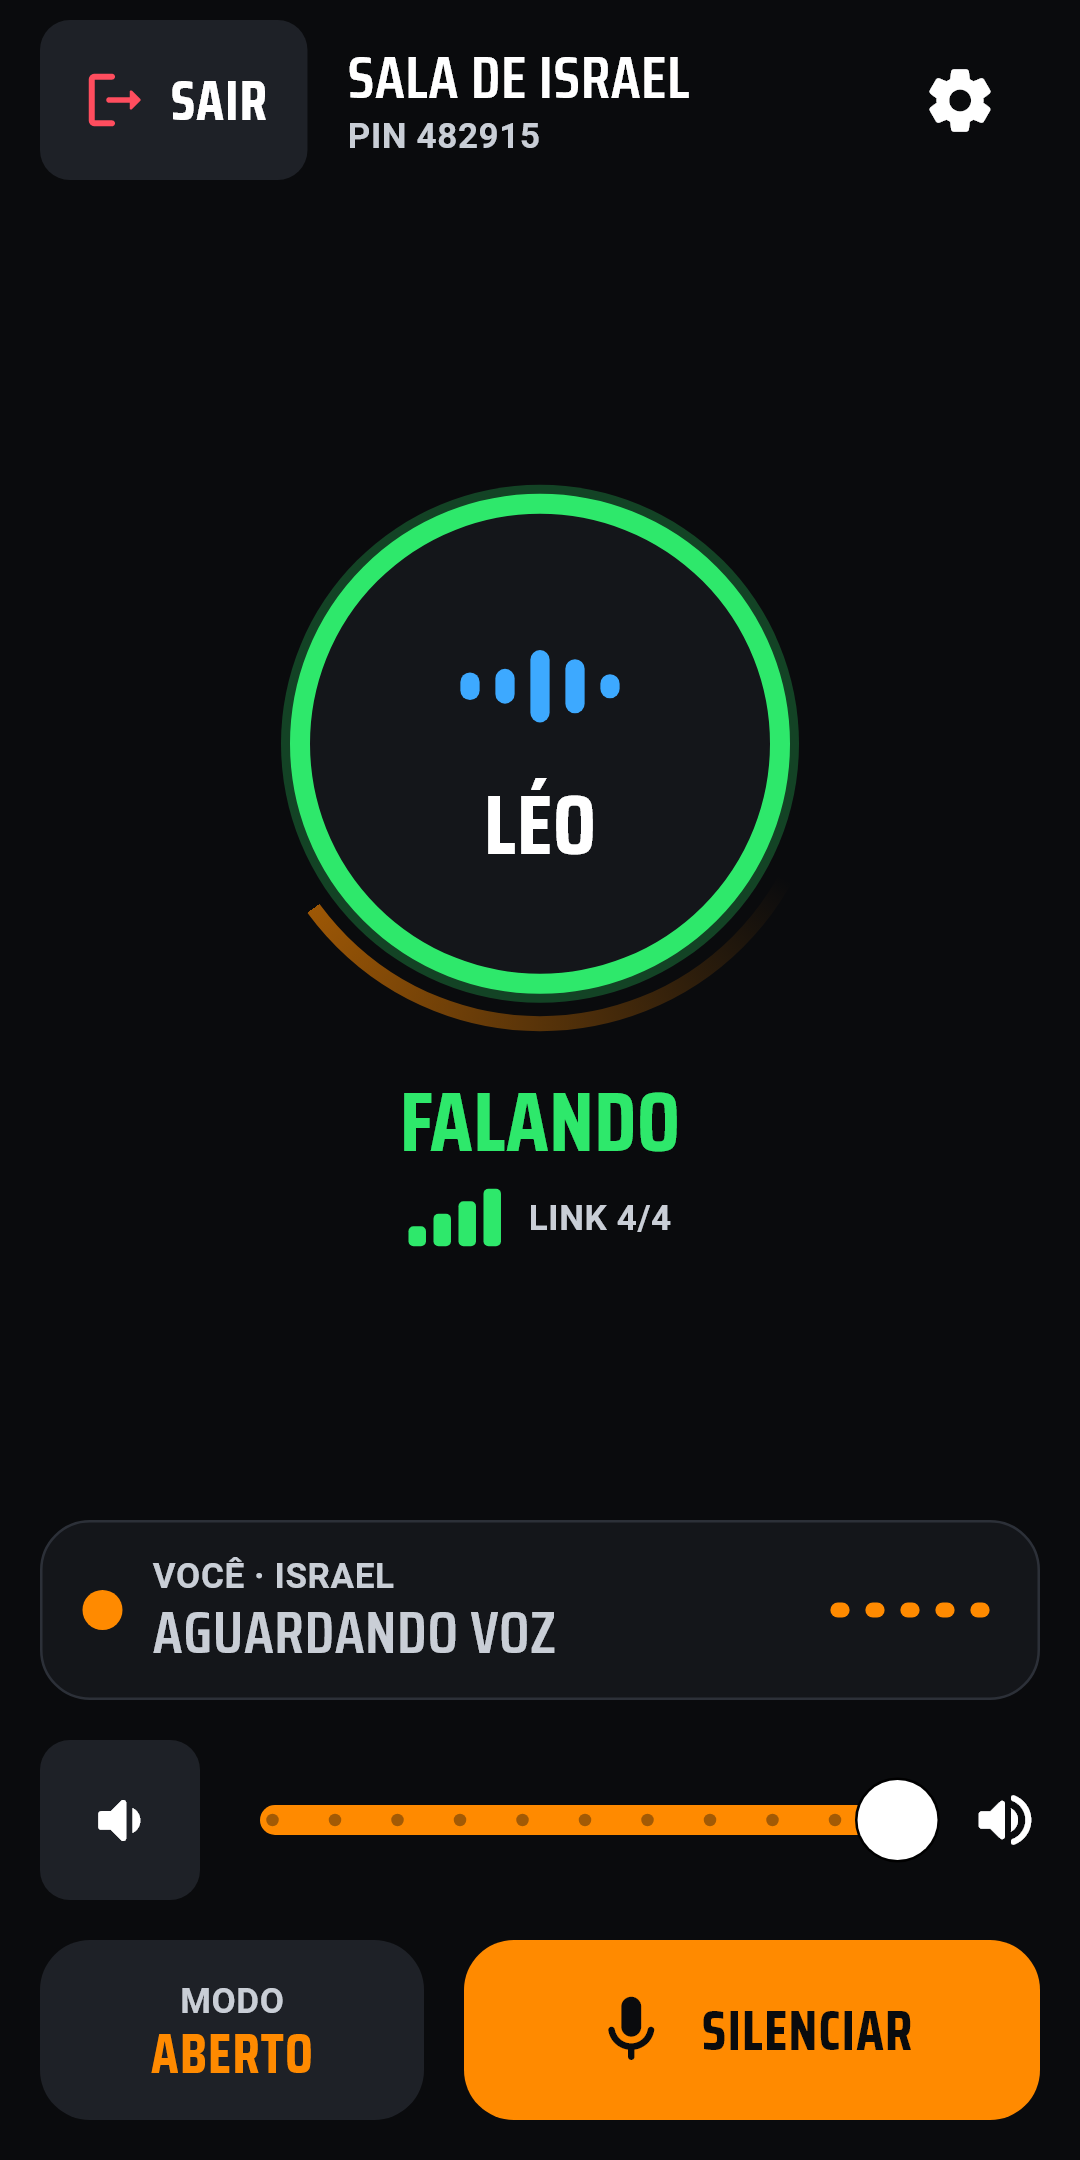
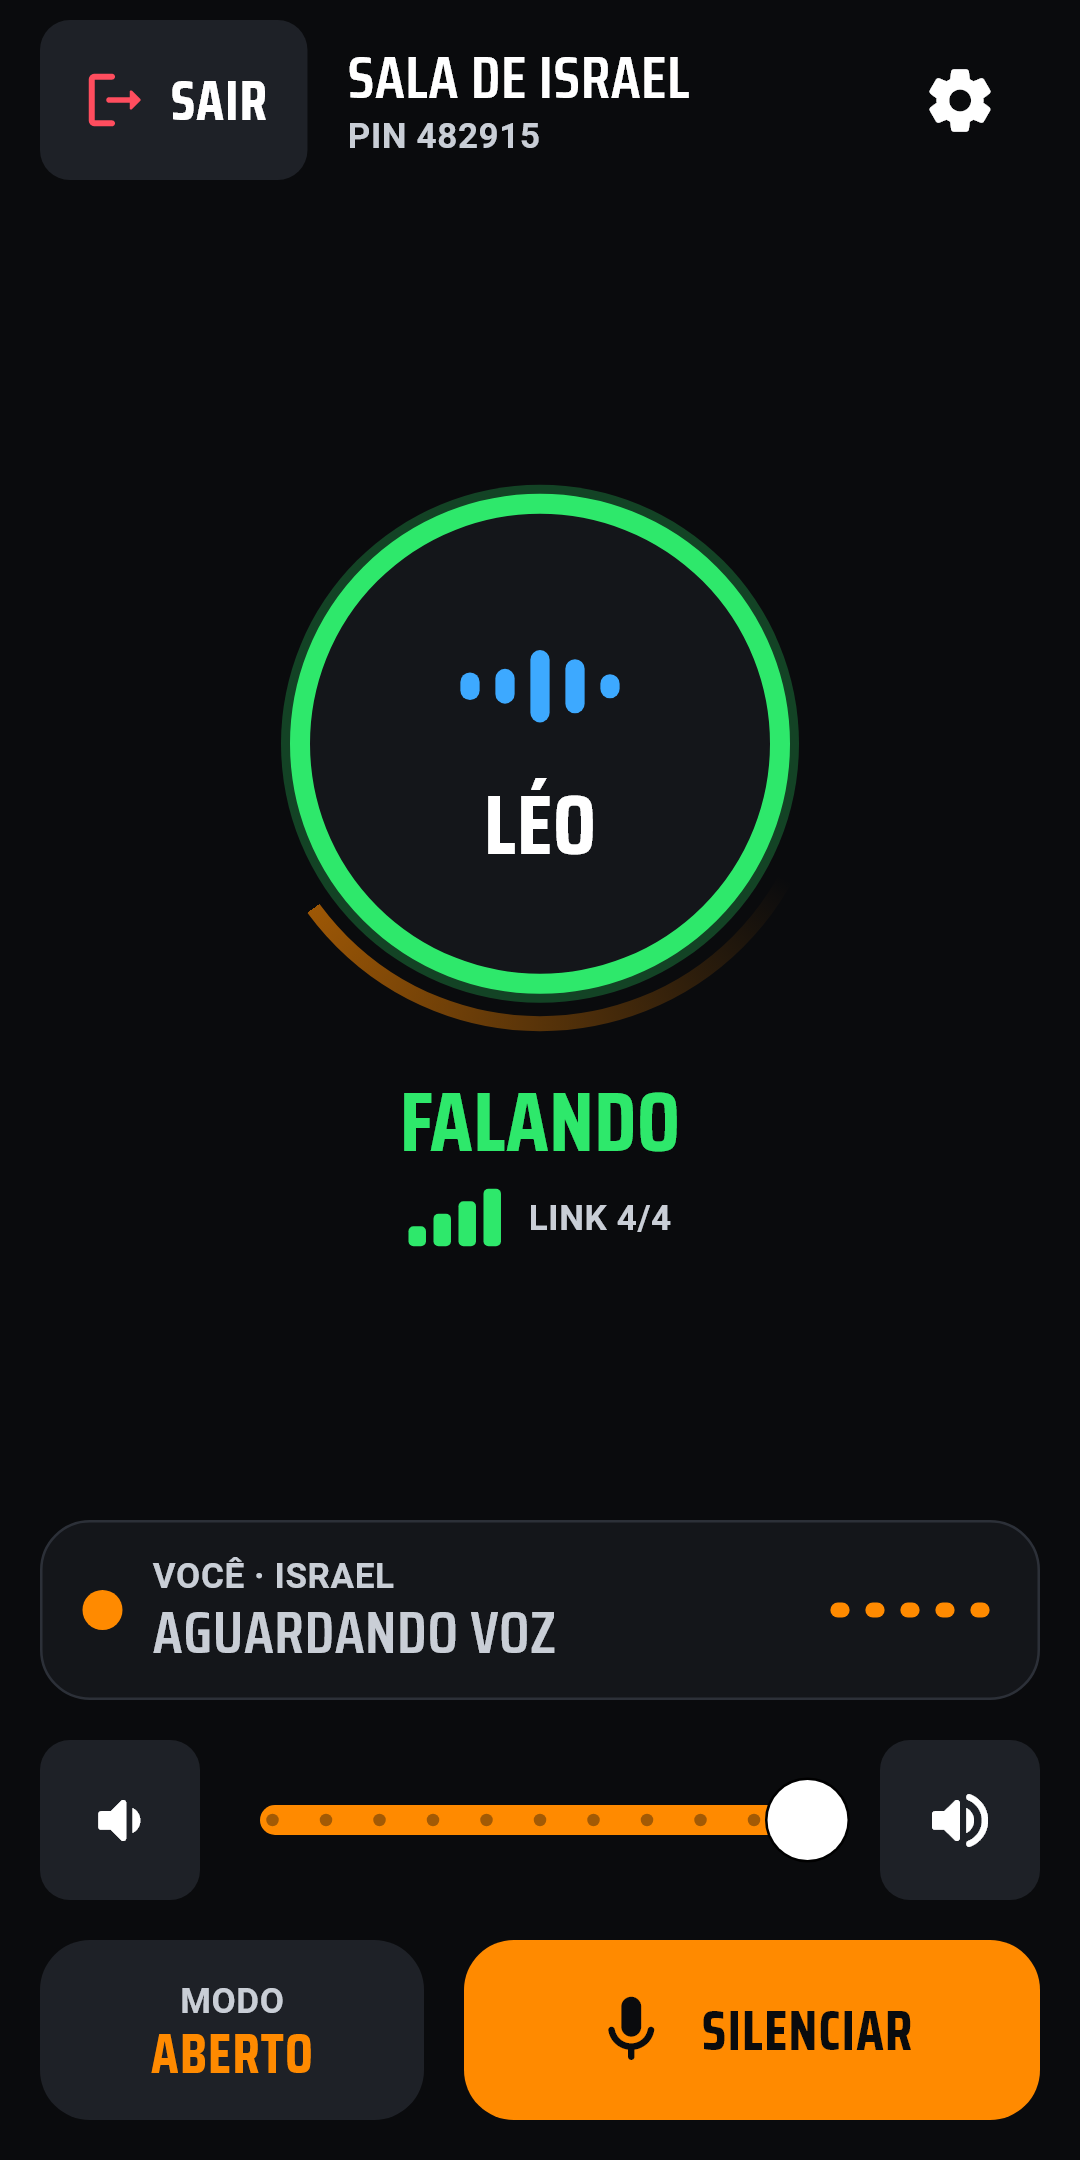
Lojas: capturas atualizadas e tamanhos iPhone 6,3 e iPad 13

Changed region(s): [[0.7028, 0.8065, 0.9778, 0.8995], [0.6417, 0.8375, 0.6722, 0.8685]]

diff --git a/tool/screenshots/shots_test.dart b/tool/screenshots/shots_test.dart
@@ -269,6 +269,8 @@ void main() {
   // (pasta, tamanho lógico, densidade) -> App Store 6,9" e Google Play (2:1).
   const targets = [
     ('store/ios', Size(440, 956), 3.0), // 1320 x 2868
+    ('store/ios-6.3', Size(402, 874), 3.0), // 1206 x 2622
+    ('store/ipad-13', Size(1032, 1376), 2.0), // 2064 x 2752
     ('store/android', Size(432, 864), 2.5), // 1080 x 2160
   ];
 
